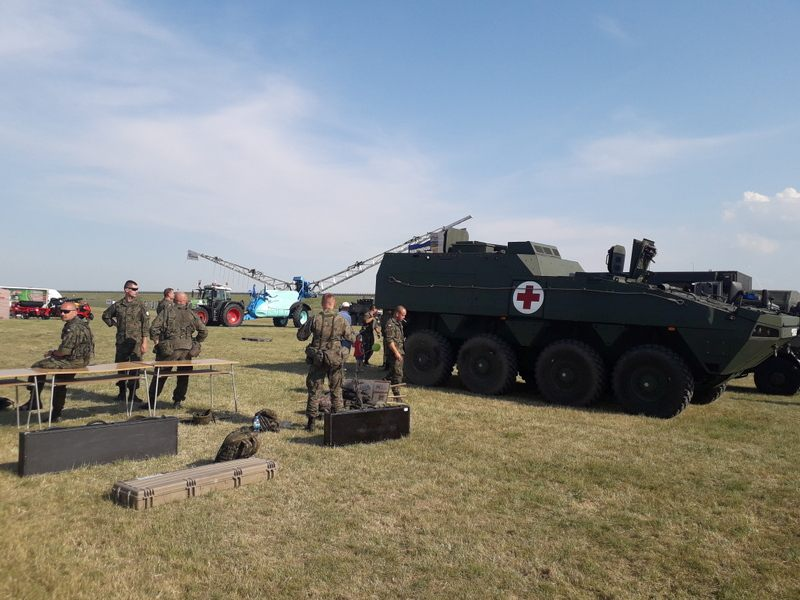
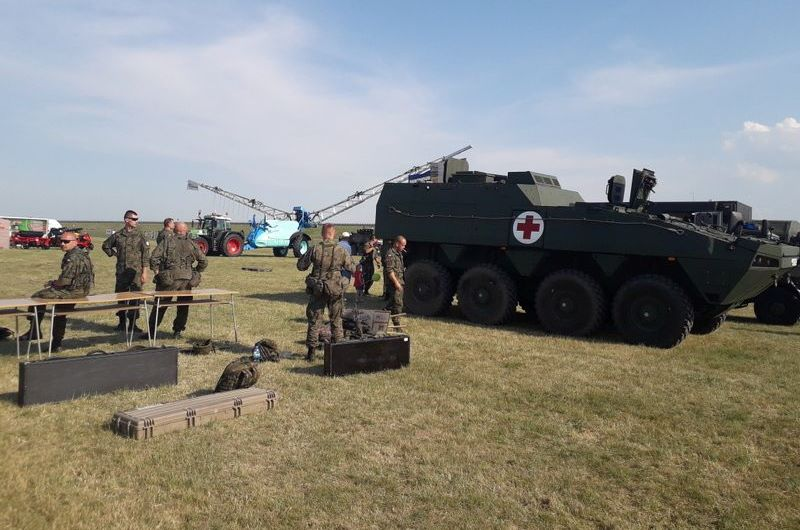
zmiany w galeri usuniecie zdjecia

diff --git a/src/html/galleries.html b/src/html/galleries.html
@@ -81,7 +81,7 @@
 			</div>
 			 
 			<div class="row">
-			    <div class="col-xs-12-col-sm-6 col-md-4"><a href="../../src/assets/img/atw2/13.jpg"><img class="Thumbnail" src="../../src/assets/img/atw2/13.jpg" alt=""></a></div>
+			    <div class="col-xs-12-col-sm-6 col-md-4"><a href="../../src/assets/img/atw2/139.jpg"><img class="Thumbnail" src="../../src/assets/img/atw2/139.jpg" alt=""></a></div>
 			    <div class="col-xs-12-col-sm-6 col-md-4"><a href="../../src/assets/img/atw2/16.jpg"><img class="Thumbnail" src="../../src/assets/img/atw2/16.jpg" alt=""></a></div>   
 			   <div class="col-xs-12-col-sm-6 col-md-4"><a href="../../src/assets/img/atw2/18.jpg"><img class="Thumbnail" src="../../src/assets/img/atw2/18.jpg" alt=""></a></div>
 			</div>
@@ -227,15 +227,15 @@
 
 			</div>
 			<div class="row">
-			   <div class="col-xs-12-col-sm-6 col-md-4"><a href="../../src/assets/img/atw2/139.jpg"><img class="Thumbnail" src="../../src/assets/img/atw2/139.jpg" alt=""></a></div>
+			   
 			   <div class="col-xs-12-col-sm-6 col-md-4"><a href="../../src/assets/img/atw2/137.jpg"><img class="Thumbnail" src="../../src/assets/img/atw2/137.jpg" alt=""></a></div>
 			   <div class="col-xs-12-col-sm-6 col-md-4"><a href="../../src/assets/img/atw2/145.jpg"><img class="Thumbnail" src="../../src/assets/img/atw2/145.jpg" alt=""></a></div>
-
+				<div class="col-xs-12-col-sm-6 col-md-4"><a href="../../src/assets/img/gal2/atwii33.jpg"><img class="Thumbnail" src="../../src/assets/img/gal2/atwii33.jpg" alt=""></a></div>
 			</div>
 
 
 			<div class="row">
-			   <div class="col-xs-12-col-sm-6 col-md-4"><a href="../../src/assets/img/gal2/atwii33.jpg"><img class="Thumbnail" src="../../src/assets/img/gal2/atwii33.jpg" alt=""></a></div>
+			   
 			   <div class="col-xs-12-col-sm-6 col-md-4"><a href="../../src/assets/img/gal2/atwii34.jpg"><img class="Thumbnail" src="../../src/assets/img/gal2/atwii34.jpg" alt=""></a></div>
 			</div>
 
